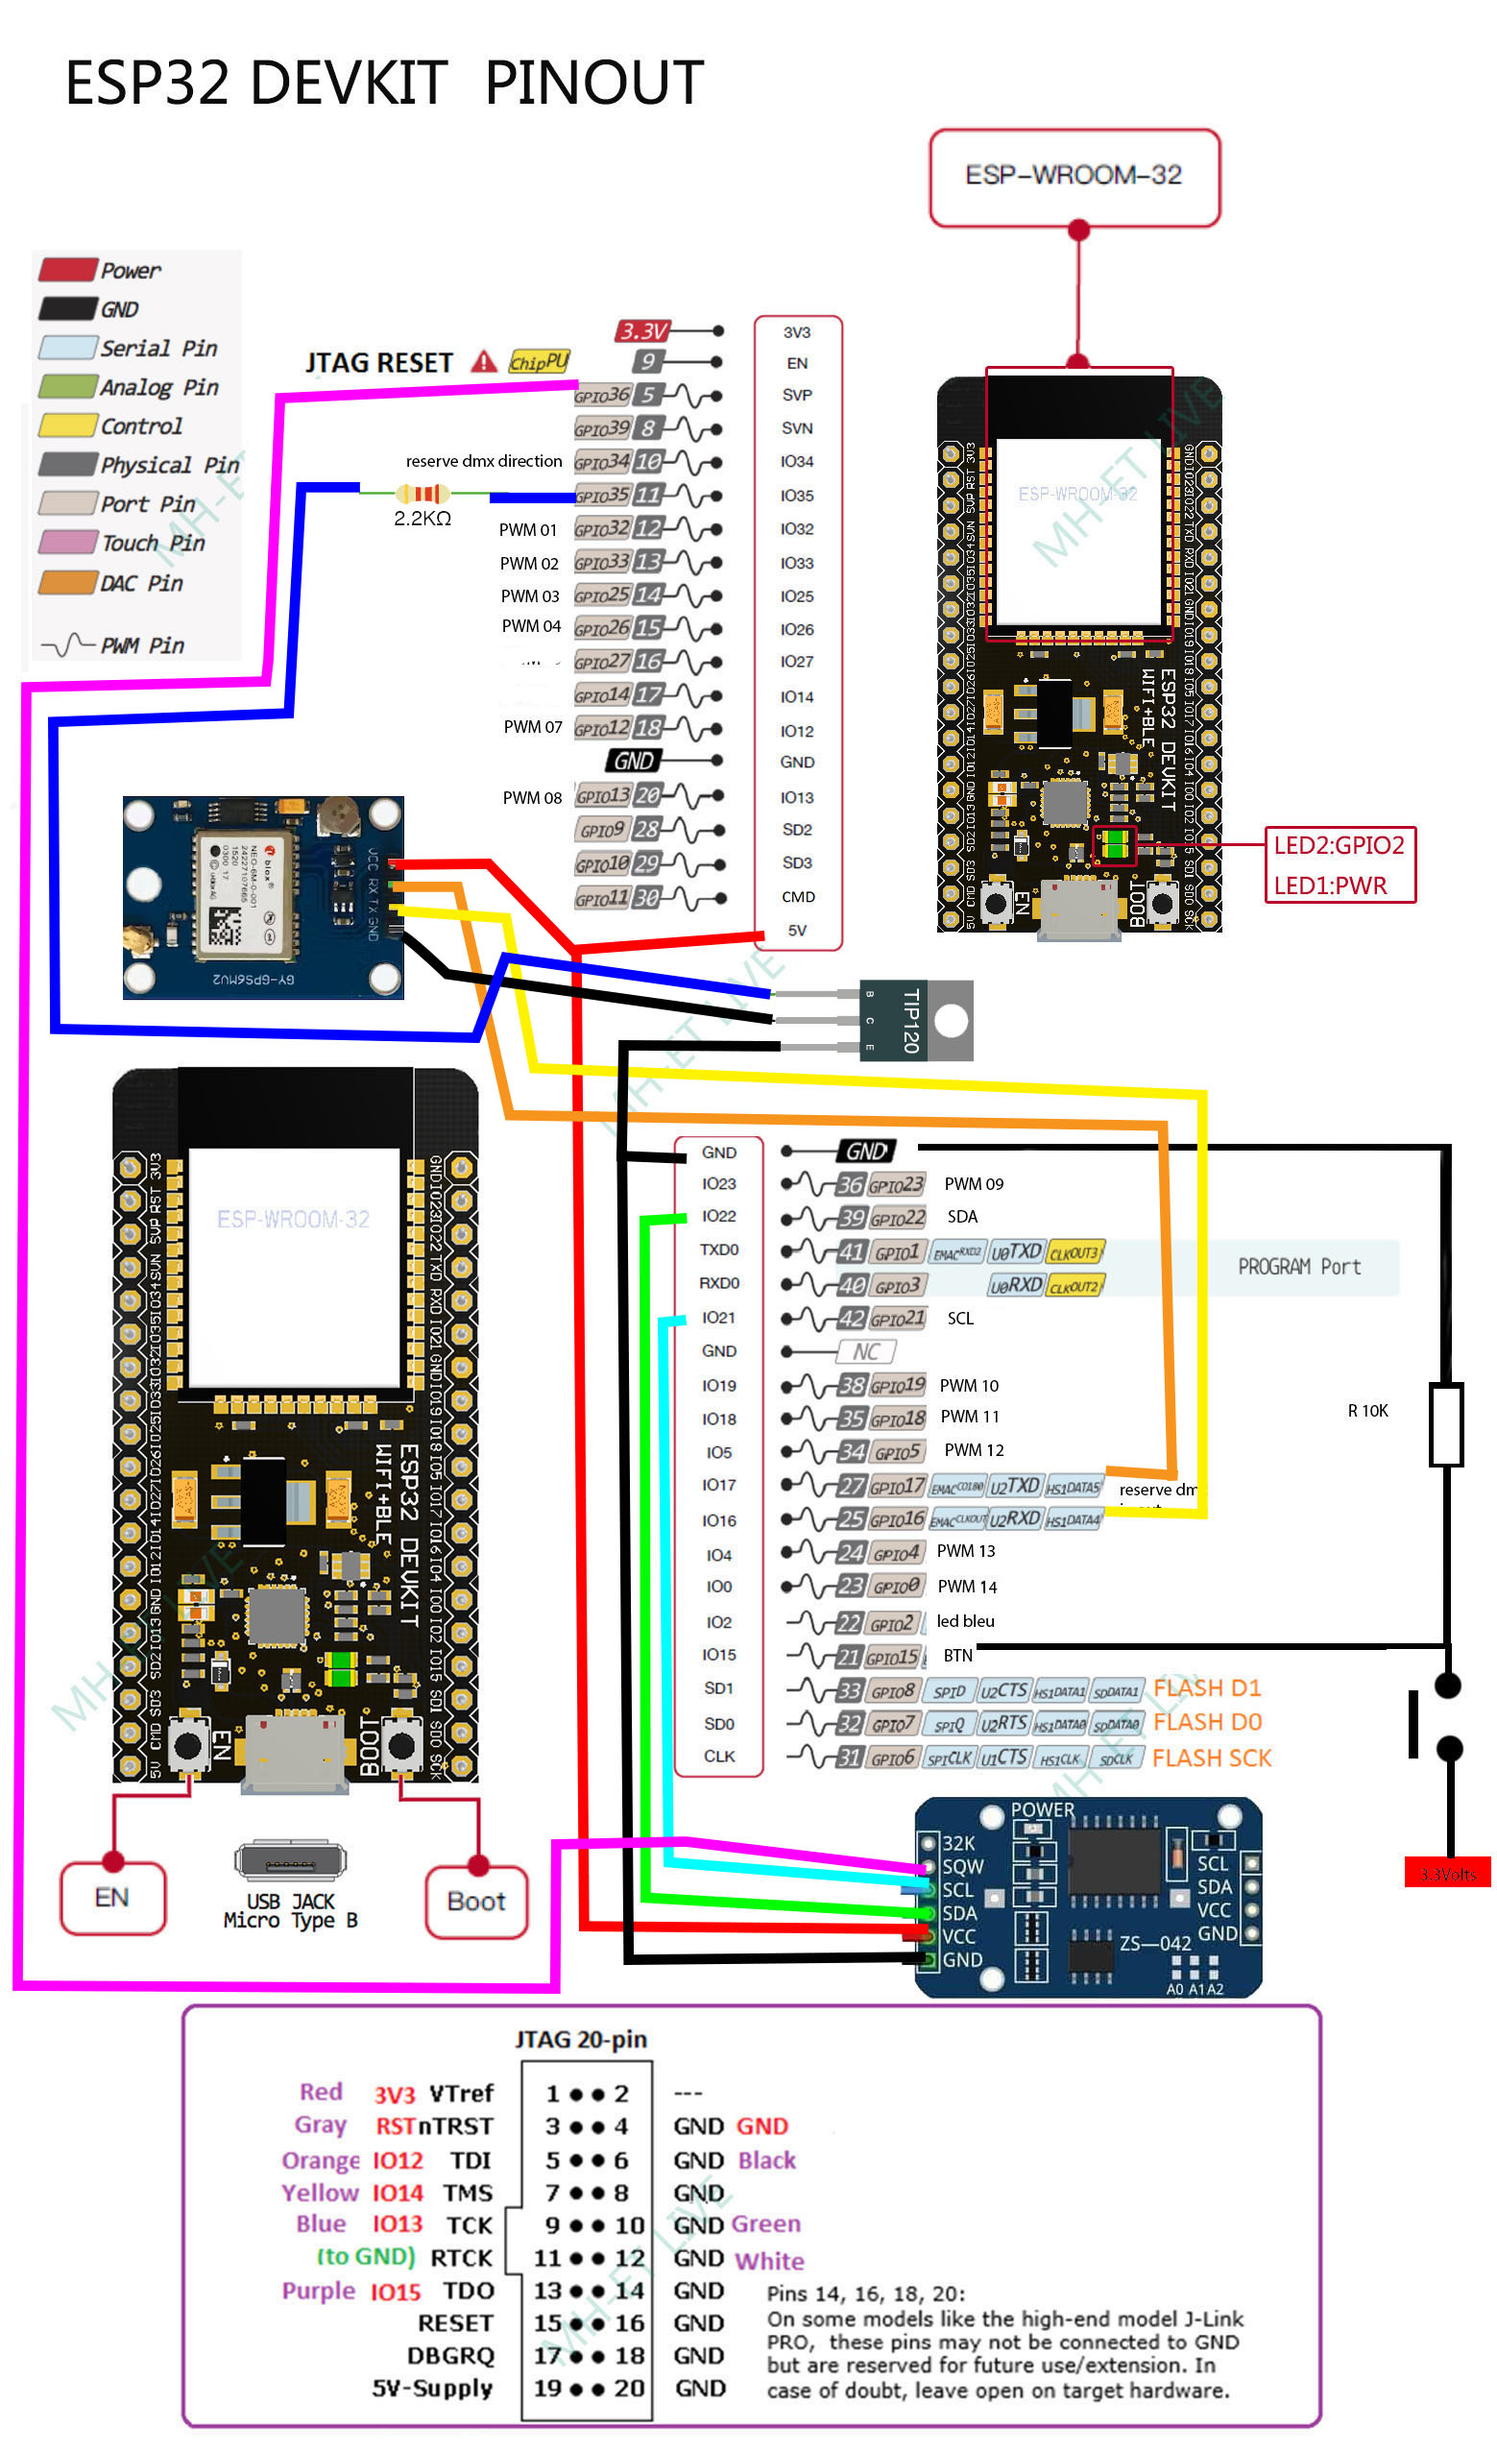
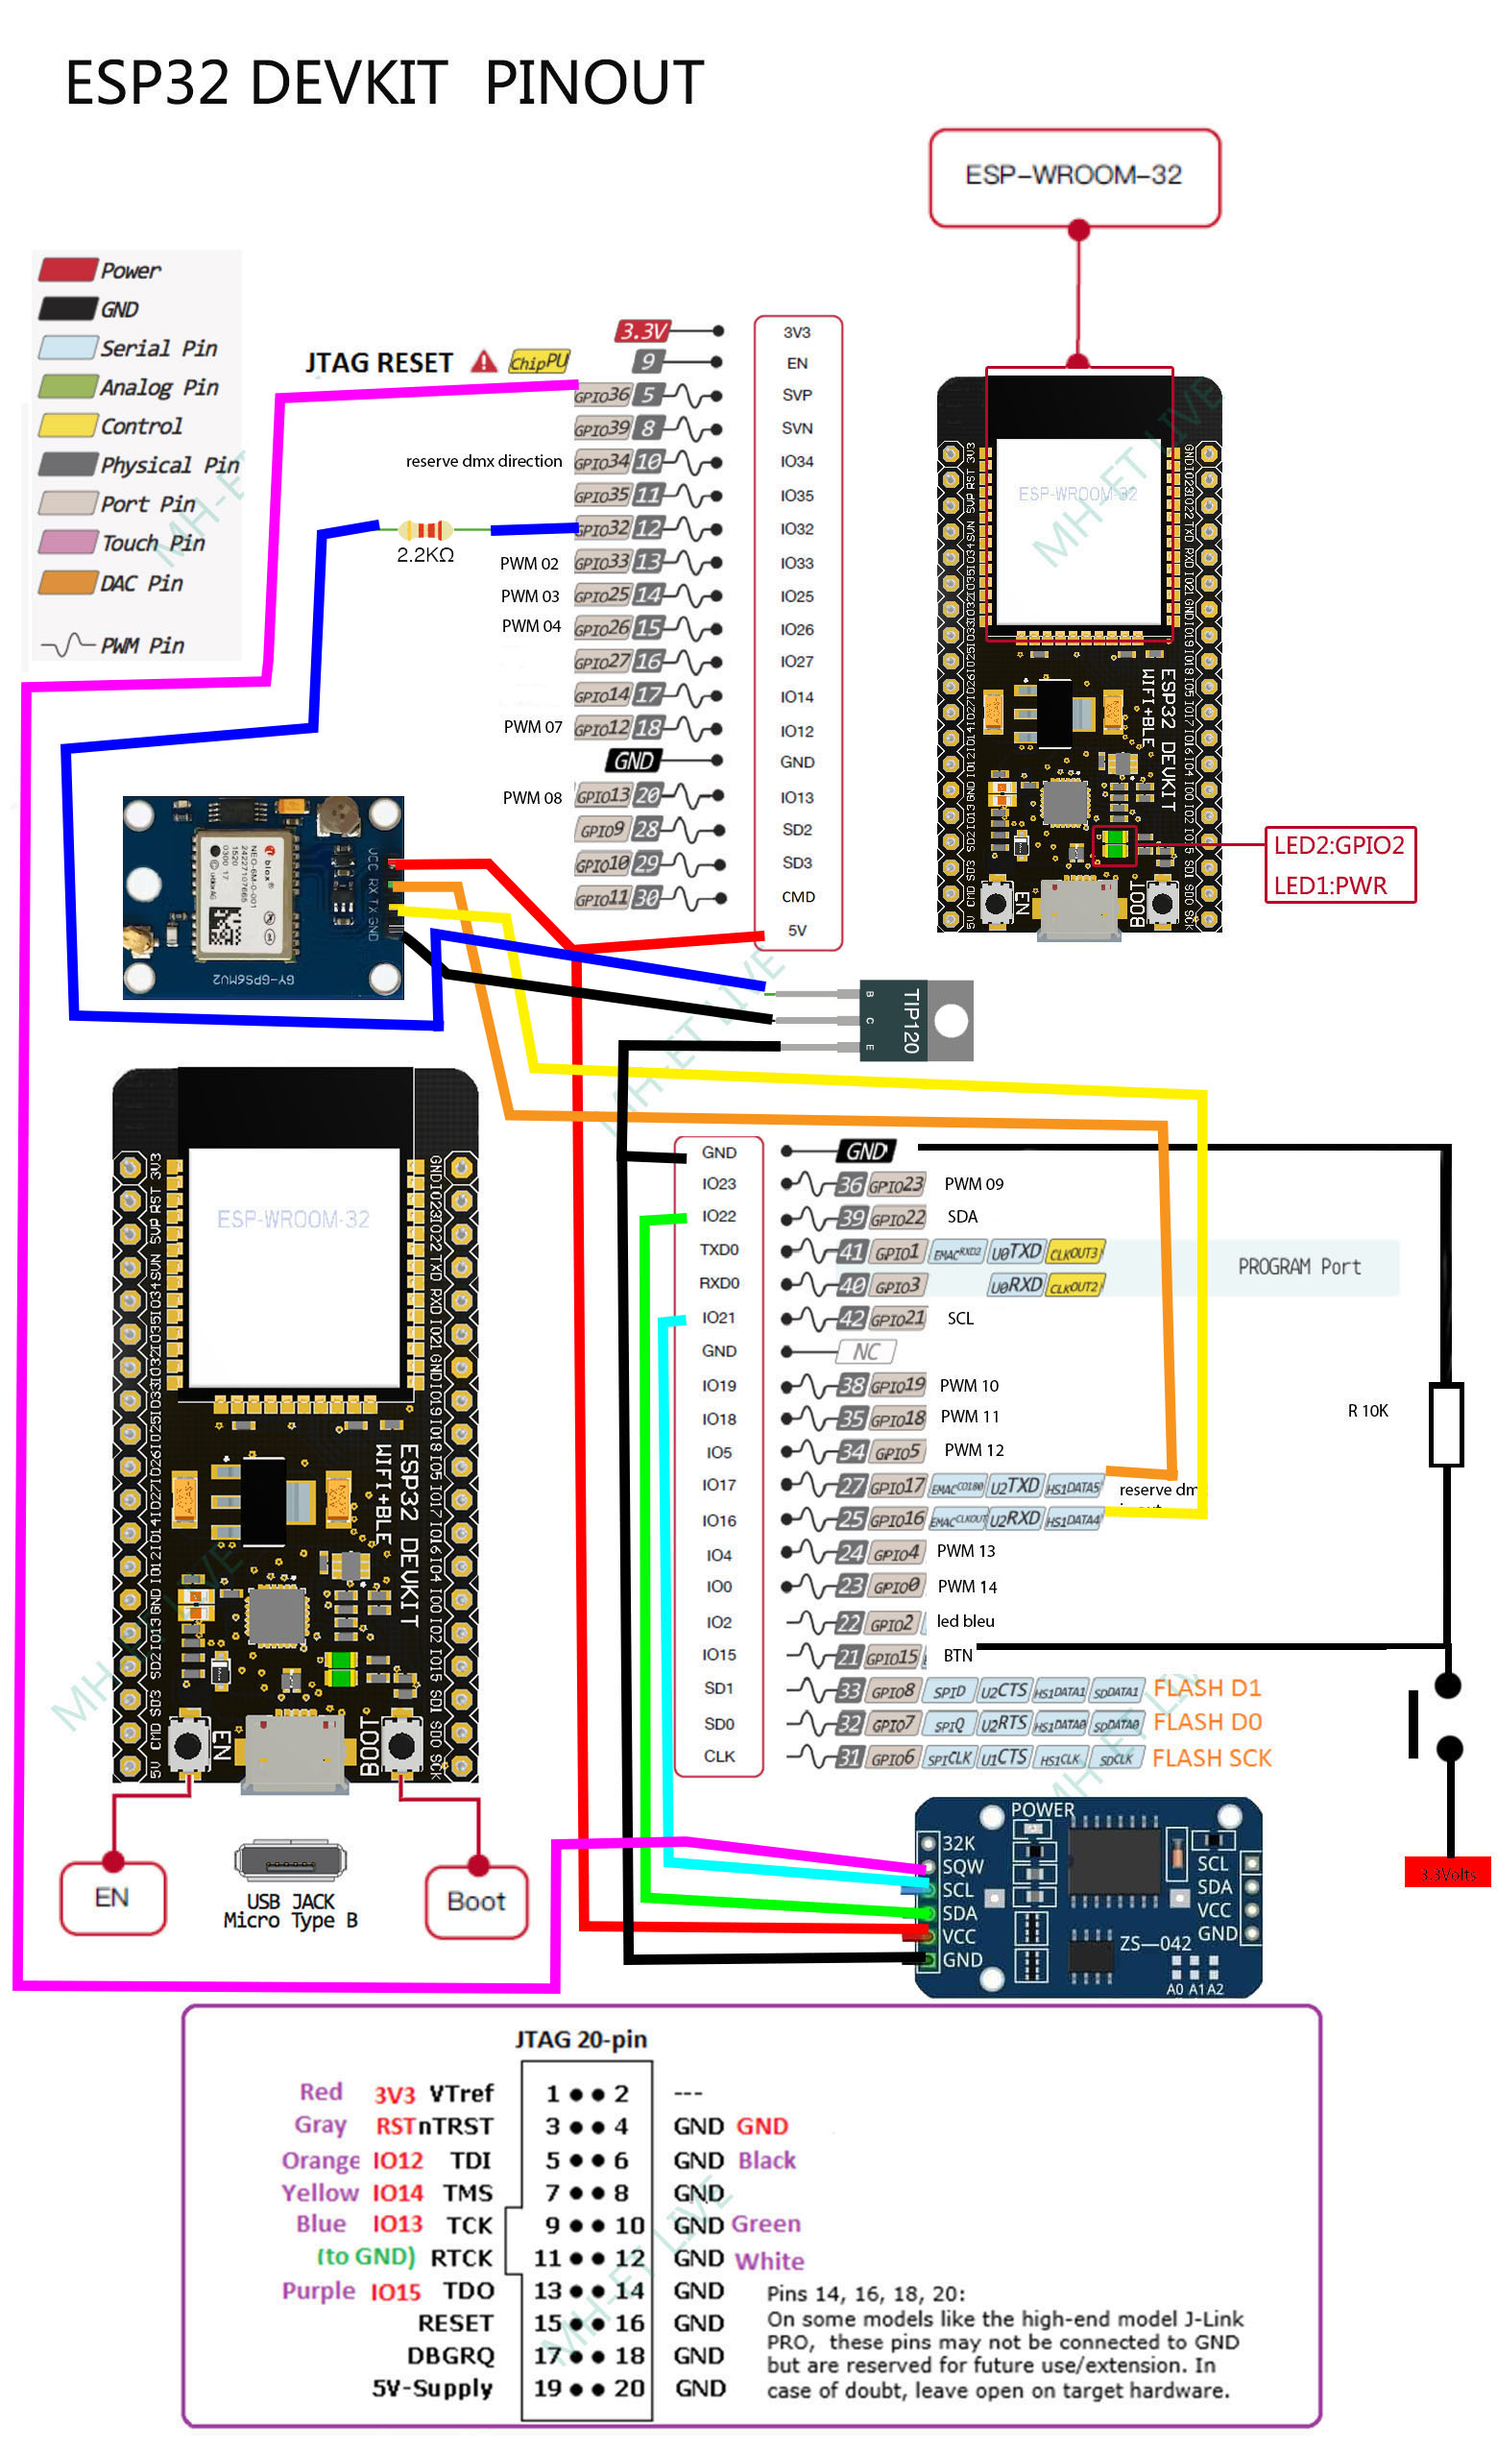
add cmd gps pin

Changed region(s): [[0.0308, 0.1858, 0.4926, 0.4336]]

diff --git a/src/btn.h b/src/btn.h
@@ -6,30 +6,22 @@
 void init_btn()
 {
     pinMode(BTN_GPIOPIN, INPUT);
-    pinMode(CMD_GPIOPIN,OUTPUT);
-    digitalWrite(CMD_GPIOPIN,LOW);
+    pinMode(CMD_GPIOPIN, OUTPUT);
+    digitalWrite(CMD_GPIOPIN, LOW);
 }
 
 void check_btn()
 {
-    btn_State = digitalRead(BTN_GPIOPIN);
-
-    if (btn_State == HIGH)
-    {
-        digitalWrite(CMD_GPIOPIN,HIGH);
-#ifdef DEBUG
-        Serial.print("(btn_State == HIGH)");
-#endif
-    }
-    while (btn_State)
+    while (digitalRead(BTN_GPIOPIN))
     {
         loop_gps();
         loop_clock_mqtt();
 
         onboard_led.on = millis() % 400 < 200;
         onboard_led.update();
+        digitalWrite(CMD_GPIOPIN, HIGH);
     }
-    digitalWrite(CMD_GPIOPIN,LOW);
+    digitalWrite(CMD_GPIOPIN, LOW);
 }
 
 #endif

diff --git a/src/variable.h b/src/variable.h
@@ -4,10 +4,10 @@
 #define PWM_CHANNELS 13    //
 #define PWM_FREQUENCY 5000 //
 #define PWM_RESOLUTION 16  //
+#define BTN_GPIOPIN 15 //
+#define CMD_GPIOPIN 32 //
 
 uint8_t PWM_GPIOPIN[14] = {32, 33, 25, 26, 27, 14, 12, 13, 23, 19, 18, 5, 4, 0};
-uint8_t BTN_GPIOPIN = 15;
-uint8_t CMD_GPIOPIN = 35;
 
 long previousMillis = 0;
 bool cycle = true;

diff --git a/src/main.cpp b/src/main.cpp
@@ -28,8 +28,8 @@ void setup()
   //   EEPROM.begin(EEPROM_SIZE);
   //   init_eeprom();
 
-  //   // init led
-  //   init_led();
+    // init led
+    init_led();
 
     // init btn
     init_btn();
